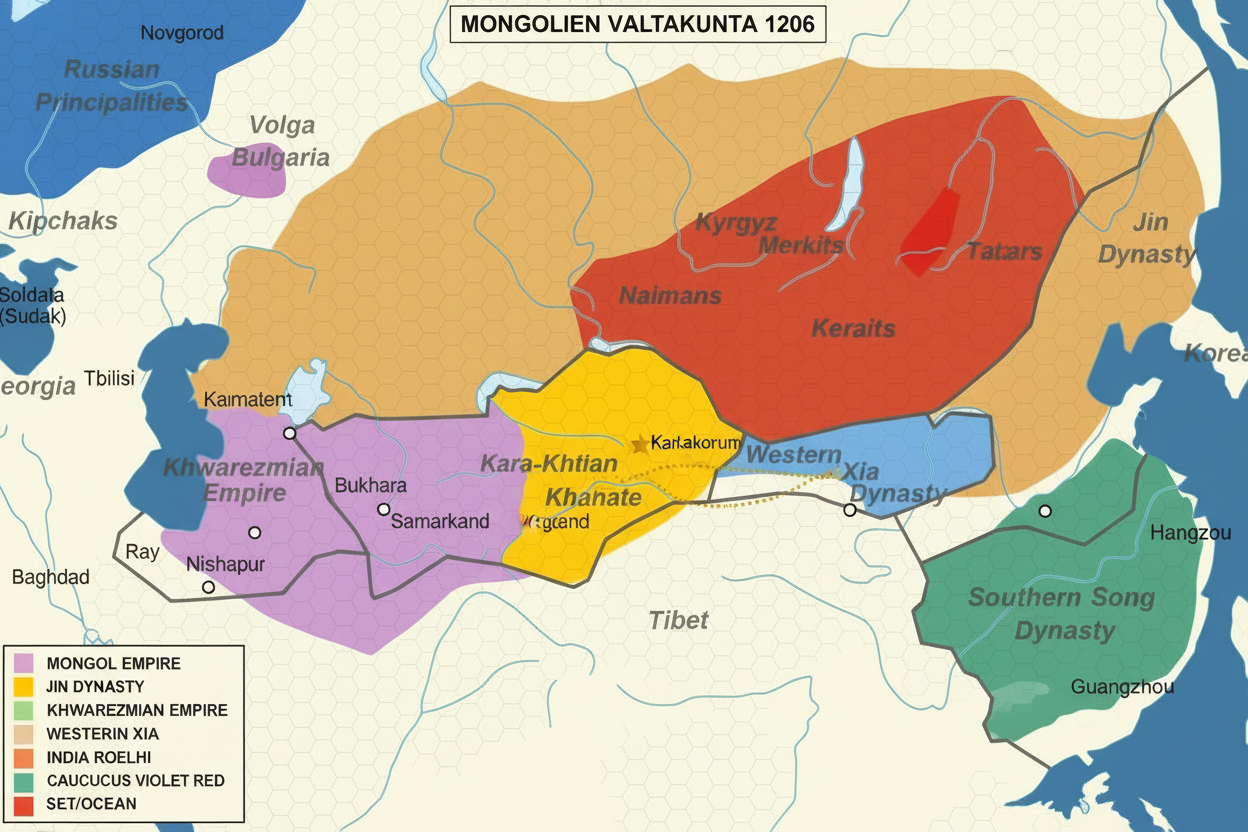
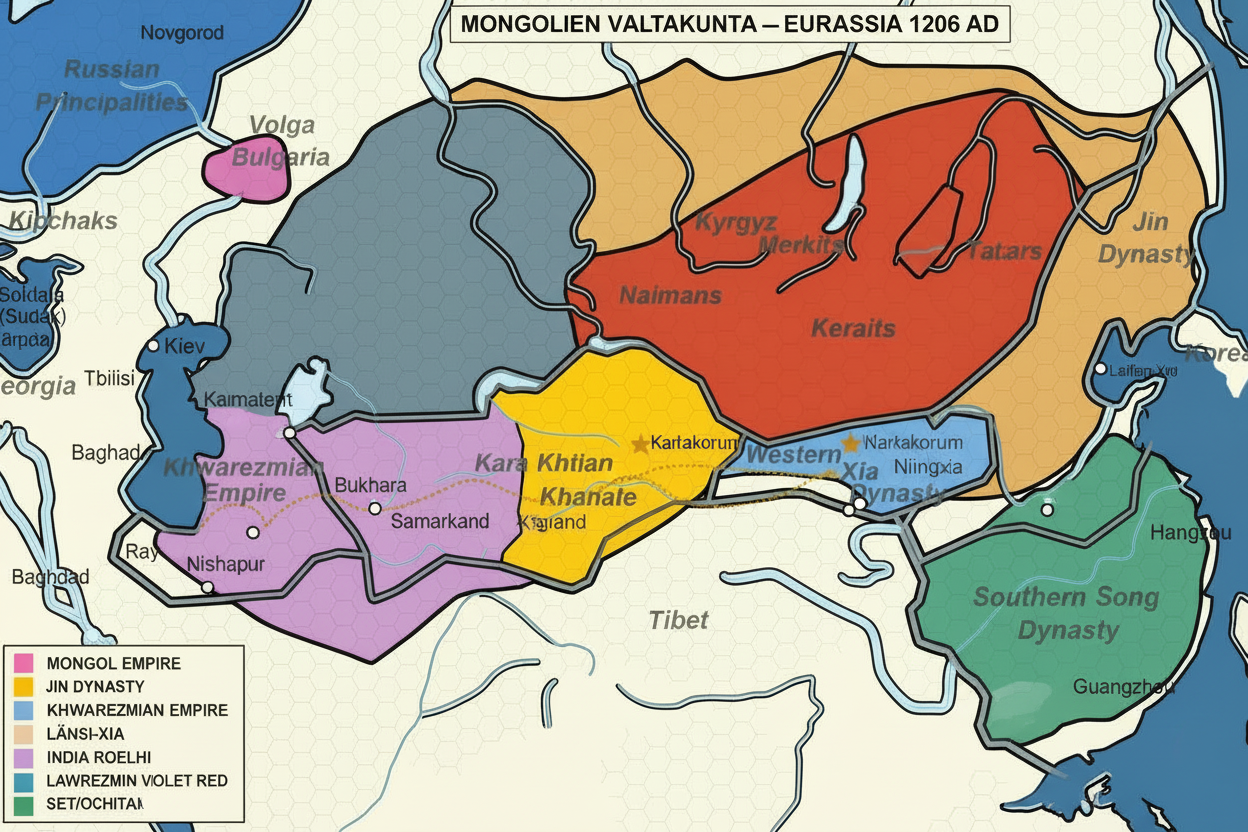
Changes

diff --git a/src/components/game/printable/PrintableGameBoard.tsx b/src/components/game/printable/PrintableGameBoard.tsx
@@ -4,6 +4,7 @@ import { Card, CardContent, CardHeader, CardTitle } from '@/components/ui/card';
 import { Tabs, TabsContent, TabsList, TabsTrigger } from '@/components/ui/tabs';
 import { Printer, ZoomIn, ZoomOut, X, MapPin, Shield, Swords, Coins, Mountain, TreePine, Waves, Sun, Building2, Wheat, Image, Grid3X3 } from 'lucide-react';
 import gameBoardImage from '@/assets/game-board-map.png';
+import { FACTION_DATA_1206, PROVINCE_TERRAIN_INFO, type FactionId } from '@/types/province';
 
 // ─── Types ───────────────────────────────────────────────────────────
 interface HexTile {
@@ -47,50 +48,51 @@ const terrainInfo: Record<string, TerrainInfo> = {
   sea:      { name: 'Meri',         icon: Waves,     movement: 'Ei liikettä',         combat: 'Ei taistelua',            resources: 'Kalastus',              special: 'Vain laivoilla' },
 };
 
+// Terrain colors matching digital game's PROVINCE_TERRAIN_INFO
 const terrainColors: Record<string, { fill: string; stroke: string }> = {
-  steppe:   { fill: '#C4B896', stroke: '#A69B70' },
-  desert:   { fill: '#E8D4A8', stroke: '#D4BC7A' },
-  mountain: { fill: '#8B7355', stroke: '#6B5344' },
-  forest:   { fill: '#4A7C59', stroke: '#3A6249' },
-  river:    { fill: '#7FB3D3', stroke: '#5A9BC4' },
-  city:     { fill: '#D4A574', stroke: '#B8864A' },
-  tundra:   { fill: '#B8C8C0', stroke: '#8FA898' },
-  sea:      { fill: '#5B92B8', stroke: '#3D7CA3' },
+  steppe:   { fill: '#a8b077', stroke: '#8a9360' },
+  desert:   { fill: '#d4a574', stroke: '#b8864a' },
+  mountain: { fill: '#6b7280', stroke: '#4b5563' },
+  forest:   { fill: '#2d5a27', stroke: '#1e3a1a' },
+  river:    { fill: '#7cb342', stroke: '#5a9230' },
+  city:     { fill: '#8bc34a', stroke: '#6d9a36' },
+  tundra:   { fill: '#b8c4cc', stroke: '#8fa898' },
+  sea:      { fill: '#3b6fa0', stroke: '#2d5580' },
 };
 
-// ─── Historically accurate regions (c. 1206) ────────────────────────
+// ─── Historically accurate regions (c. 1206) — unified with digital game ──
 const regionInfo: Record<string, RegionInfo> = {
   'Mongolia': {
-    name: 'Mongolian Steppi',
-    description: 'Keski-Aasian sydän. Genghis Khan yhdisti mongoliheimot vuonna 1206 ja perusti Mongolien valtakunnan.',
+    name: 'Mongolien valtakunta',
+    description: FACTION_DATA_1206.mongol.name + ' — Tšingis-kaanin yhdistämä valtakunta.',
     capital: 'Karakorum',
-    faction: 'Mongoli-imperiumi',
-    bonuses: ['Ratsuväki +1 liike', 'Hevosten tuotanto ×2', 'Nomadibonus'],
+    faction: FACTION_DATA_1206.mongol.name,
+    bonuses: ['Ratsuväki +30%', 'Piiritystaito +20%', 'Nomadibonus'],
     historicalNote: 'Vuonna 1206 Temüjin sai arvonimen Genghis Khan kurultaissa Onon-joen varrella.'
   },
   'Jin': {
     name: 'Jin-dynastia (金朝)',
-    description: 'Juršen-kansan hallitsema Pohjois-Kiinan valtakunta. Rikas mutta sisäisesti heikentynyt.',
+    description: FACTION_DATA_1206.jin.name + ' — Juršen-kansan hallitsema Pohjois-Kiinan valtakunta.',
     capital: 'Zhongdu (Peking)',
-    faction: 'Jin-dynastia',
-    bonuses: ['Teknologia +1', 'Muuri: puolustus +2', 'Runsaat resurssit'],
-    historicalNote: 'Jin hallitsi Pohjois-Kiinaa 1115–1234. Pääkaupunki Zhongdu (nykyinen Peking) vallattiin 1215.'
+    faction: FACTION_DATA_1206.jin.name,
+    bonuses: ['Teknologia +20%', 'Muuri: puolustus +2', 'Runsaat resurssit'],
+    historicalNote: 'Jin hallitsi Pohjois-Kiinaa 1115–1234. Pääkaupunki Zhongdu vallattiin 1215.'
   },
   'Xi Xia': {
-    name: 'Xi Xia -kuningaskunta (西夏)',
-    description: 'Tangut-kansan buddhalainen valtakunta Kiinan luoteisosassa, Silkkitien varrella.',
+    name: 'Länsi-Xia (西夏)',
+    description: FACTION_DATA_1206.xixia.name + ' — Tangut-kansan buddhalainen valtakunta.',
     capital: 'Zhongxing',
-    faction: 'Xi Xia',
-    bonuses: ['Silkkitie +1 kultaa', 'Puolustusetu', 'Kauppiaat'],
+    faction: FACTION_DATA_1206.xixia.name,
+    bonuses: ['Silkkitie +10%', 'Puolustusetu', 'Kauppiaat'],
     historicalNote: 'Genghis Khanin ensimmäinen suuri valloituskohde. Xi Xia tuhottiin 1227.'
   },
   'Khwarezmia': {
     name: 'Khwarezmin šaahinvaltakunta',
-    description: 'Voimakas islamilainen valtakunta Keski-Aasiassa. Hallitsi Silkkitien kauppakaupunkeja.',
+    description: FACTION_DATA_1206.khwarezm.name + ' — Voimakas islamilainen valtakunta Keski-Aasiassa.',
     capital: 'Samarkand',
-    faction: 'Khwarezmit',
-    bonuses: ['Kauppa +2 kultaa', 'Silkkitien hallinta', 'Diplomaattinen vaikutus'],
-    historicalNote: 'Šaahi Muhammad II loukkasi mongoleja teloittamalla kauppalähetystön 1218, mikä johti tuhoisaan valloitussotaan.'
+    faction: FACTION_DATA_1206.khwarezm.name,
+    bonuses: ['Kauppa +20%', 'Silkkitien hallinta', 'Piiritystaito +10%'],
+    historicalNote: 'Šaahi Muhammad II loukkasi mongoleja teloittamalla kauppalähetystön 1218.'
   },
   'Kara-Khitai': {
     name: 'Kara-Khitai (西遼)',
@@ -102,47 +104,47 @@ const regionInfo: Record<string, RegionInfo> = {
   },
   'Kipchak': {
     name: 'Kipčakkien steppivaltakunta',
-    description: 'Kumaani-kipčakkien hallitsema laaja steppivyöhyke Mustanmeren pohjoispuolelta Aral-järvelle.',
-    capital: 'Sarai (myöh.)',
-    faction: 'Kumaaniliitto',
-    bonuses: ['Ratsuväki +1', 'Laaja alue', 'Nomadien verkostot'],
+    description: FACTION_DATA_1206.kipchak.name + ' — Kumaani-kipčakkien hallitsema laaja steppivyöhyke.',
+    capital: 'Sarkel',
+    faction: FACTION_DATA_1206.kipchak.name,
+    bonuses: ['Ratsuväki +20%', 'Laaja alue', 'Nomadien verkostot'],
     historicalNote: 'Kipčakit olivat mongolilaisten sukulaiskansaa. Alueesta tuli myöhemmin Kultaisen ordan ydin.'
   },
   'Venäjä': {
-    name: 'Kiovan Rusin ruhtinaskunnat',
-    description: 'Hajanainen slaavilaisten ruhtinaskuntien kokoelma. Sisäiset riidat heikensivät puolustusta.',
-    capital: 'Kiev',
-    faction: 'Kiovan Rus',
-    bonuses: ['Talvibonus +2', 'Metsätaistelu +1', 'Sitkeä puolustus'],
+    name: 'Venäjän ruhtinaskunnat',
+    description: FACTION_DATA_1206.rus.name + ' — Hajanainen slaavilaisten ruhtinaskuntien kokoelma.',
+    capital: 'Novgorod',
+    faction: FACTION_DATA_1206.rus.name,
+    bonuses: ['Talvibonus +10%', 'Metsätaistelu +10%', 'Sitkeä puolustus'],
     historicalNote: 'Mongoliarmeija murskasi venäläis-kumaaniliiton Kalka-joen taistelussa 1223.'
   },
   'Persia': {
     name: 'Abbasidien kalifaatti',
-    description: 'Islamilaisen maailman henkinen keskus Bagdadissa. Sotilaallisesti heikko mutta kulttuurisesti rikas.',
+    description: 'Islamilaisen maailman henkinen keskus Bagdadissa.',
     capital: 'Bagdad',
     faction: 'Abbasidi-kalifaatti',
     bonuses: ['Kulttuuri +2', 'Tiede +1', 'Vauras talous'],
-    historicalNote: 'Bagdad tuhottiin 1258 Hülegün johdolla. Kaliffi teloitettiin ja kirjasto tuhottiin.'
+    historicalNote: 'Bagdad tuhottiin 1258 Hülegün johdolla.'
   },
   'Intia': {
     name: 'Delhin sulttaanikunta',
-    description: 'Pohjois-Intian islamilainen valtakunta. Vuoristopassit suojelivat hyökkäyksiltä.',
+    description: 'Pohjois-Intian islamilainen valtakunta.',
     capital: 'Delhi',
     faction: 'Delhi-sultantti',
     bonuses: ['Puolustus +2', 'Elefantit', 'Rikkaat kaupungit'],
-    historicalNote: 'Mongolit hyökkäsivät Intiaan useaan otteeseen 1200-luvulla mutta eivät koskaan valloittaneet Delhiä.'
+    historicalNote: 'Mongolit hyökkäsivät Intiaan useaan otteeseen mutta eivät koskaan valloittaneet Delhiä.'
   },
   'Song': {
     name: 'Etelä-Songin dynastia (南宋)',
-    description: 'Maailman rikkain ja edistynein valtakunta. Jangtsejoki oli luonnollinen puolustuseste.',
+    description: FACTION_DATA_1206.song.name + ' — Maailman rikkain ja edistynein valtakunta.',
     capital: 'Hangzhou (Lin\'an)',
-    faction: 'Song-dynastia',
-    bonuses: ['Teknologia +2', 'Laivasto', 'Rikkain talous'],
-    historicalNote: 'Song kesti mongolien hyökkäykset 40 vuotta (1235–1279). Ruuti ja kompassi keksittiin täällä.'
+    faction: FACTION_DATA_1206.song.name,
+    bonuses: ['Teknologia +30%', 'Laivasto', 'Rikkain talous'],
+    historicalNote: 'Song kesti mongolien hyökkäykset 40 vuotta (1235–1279).'
   },
   'Kaukasia': {
     name: 'Kaukasian kuningaskunnat',
-    description: 'Georgian ja Armenian kristityt kuningaskunnat vuoristoisella alueella.',
+    description: 'Georgian ja Armenian kristityt kuningaskunnat.',
     capital: 'Tbilisi',
     faction: 'Georgian kuningaskunta',
     bonuses: ['Vuoristopuolustus +2', 'Kristilliset liittolaiset', 'Kauppareitit'],
@@ -150,17 +152,18 @@ const regionInfo: Record<string, RegionInfo> = {
   },
 };
 
+// Region colors matching digital game's FACTION_DATA_1206
 const regionColors: Record<string, string> = {
-  'Mongolia':    '#FFD700',
-  'Jin':         '#DC143C',
-  'Xi Xia':      '#FF8C00',
-  'Khwarezmia':  '#9370DB',
-  'Kara-Khitai': '#DB7093',
-  'Kipchak':     '#F4A460',
-  'Venäjä':      '#4169E1',
+  'Mongolia':    FACTION_DATA_1206.mongol.color,    // #f59e0b (amber/gold)
+  'Jin':         FACTION_DATA_1206.jin.color,        // #ef4444 (red)
+  'Xi Xia':      FACTION_DATA_1206.xixia.color,      // #3b82f6 (blue)
+  'Khwarezmia':  FACTION_DATA_1206.khwarezm.color,    // #8b5cf6 (purple)
+  'Kara-Khitai': '#14b8a6',                           // teal
+  'Kipchak':     FACTION_DATA_1206.kipchak.color,      // #ec4899 (pink)
+  'Venäjä':      FACTION_DATA_1206.rus.color,          // #64748b (slate)
   'Persia':      '#20B2AA',
   'Intia':       '#FF6347',
-  'Song':        '#228B22',
+  'Song':        FACTION_DATA_1206.song.color,         // #22c55e (green)
   'Kaukasia':    '#C71585',
 };
 
